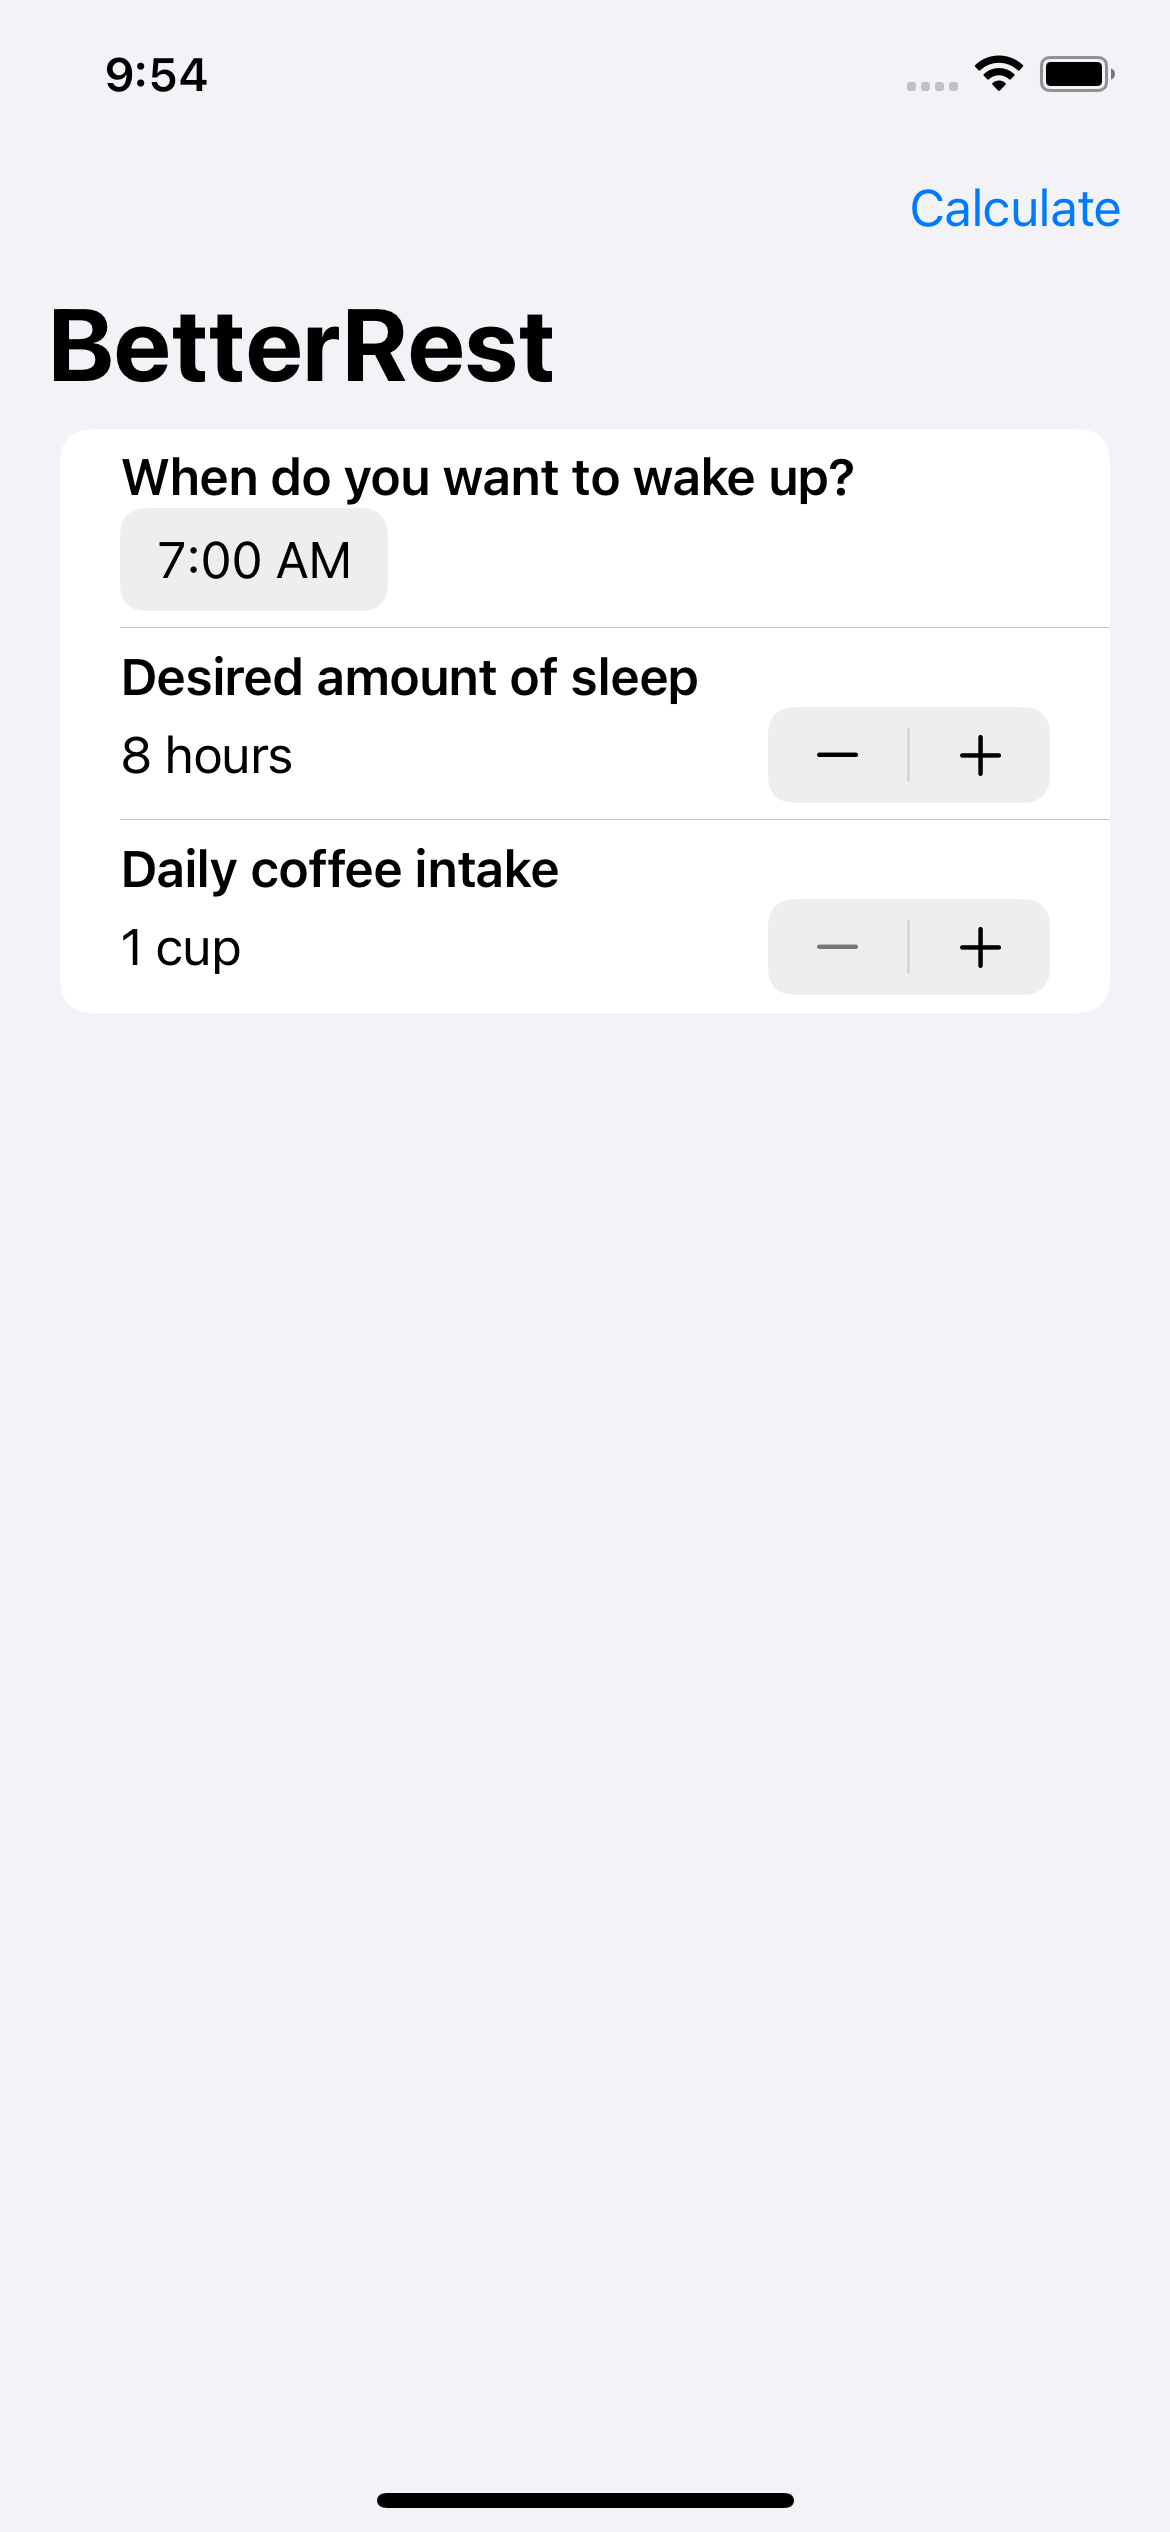
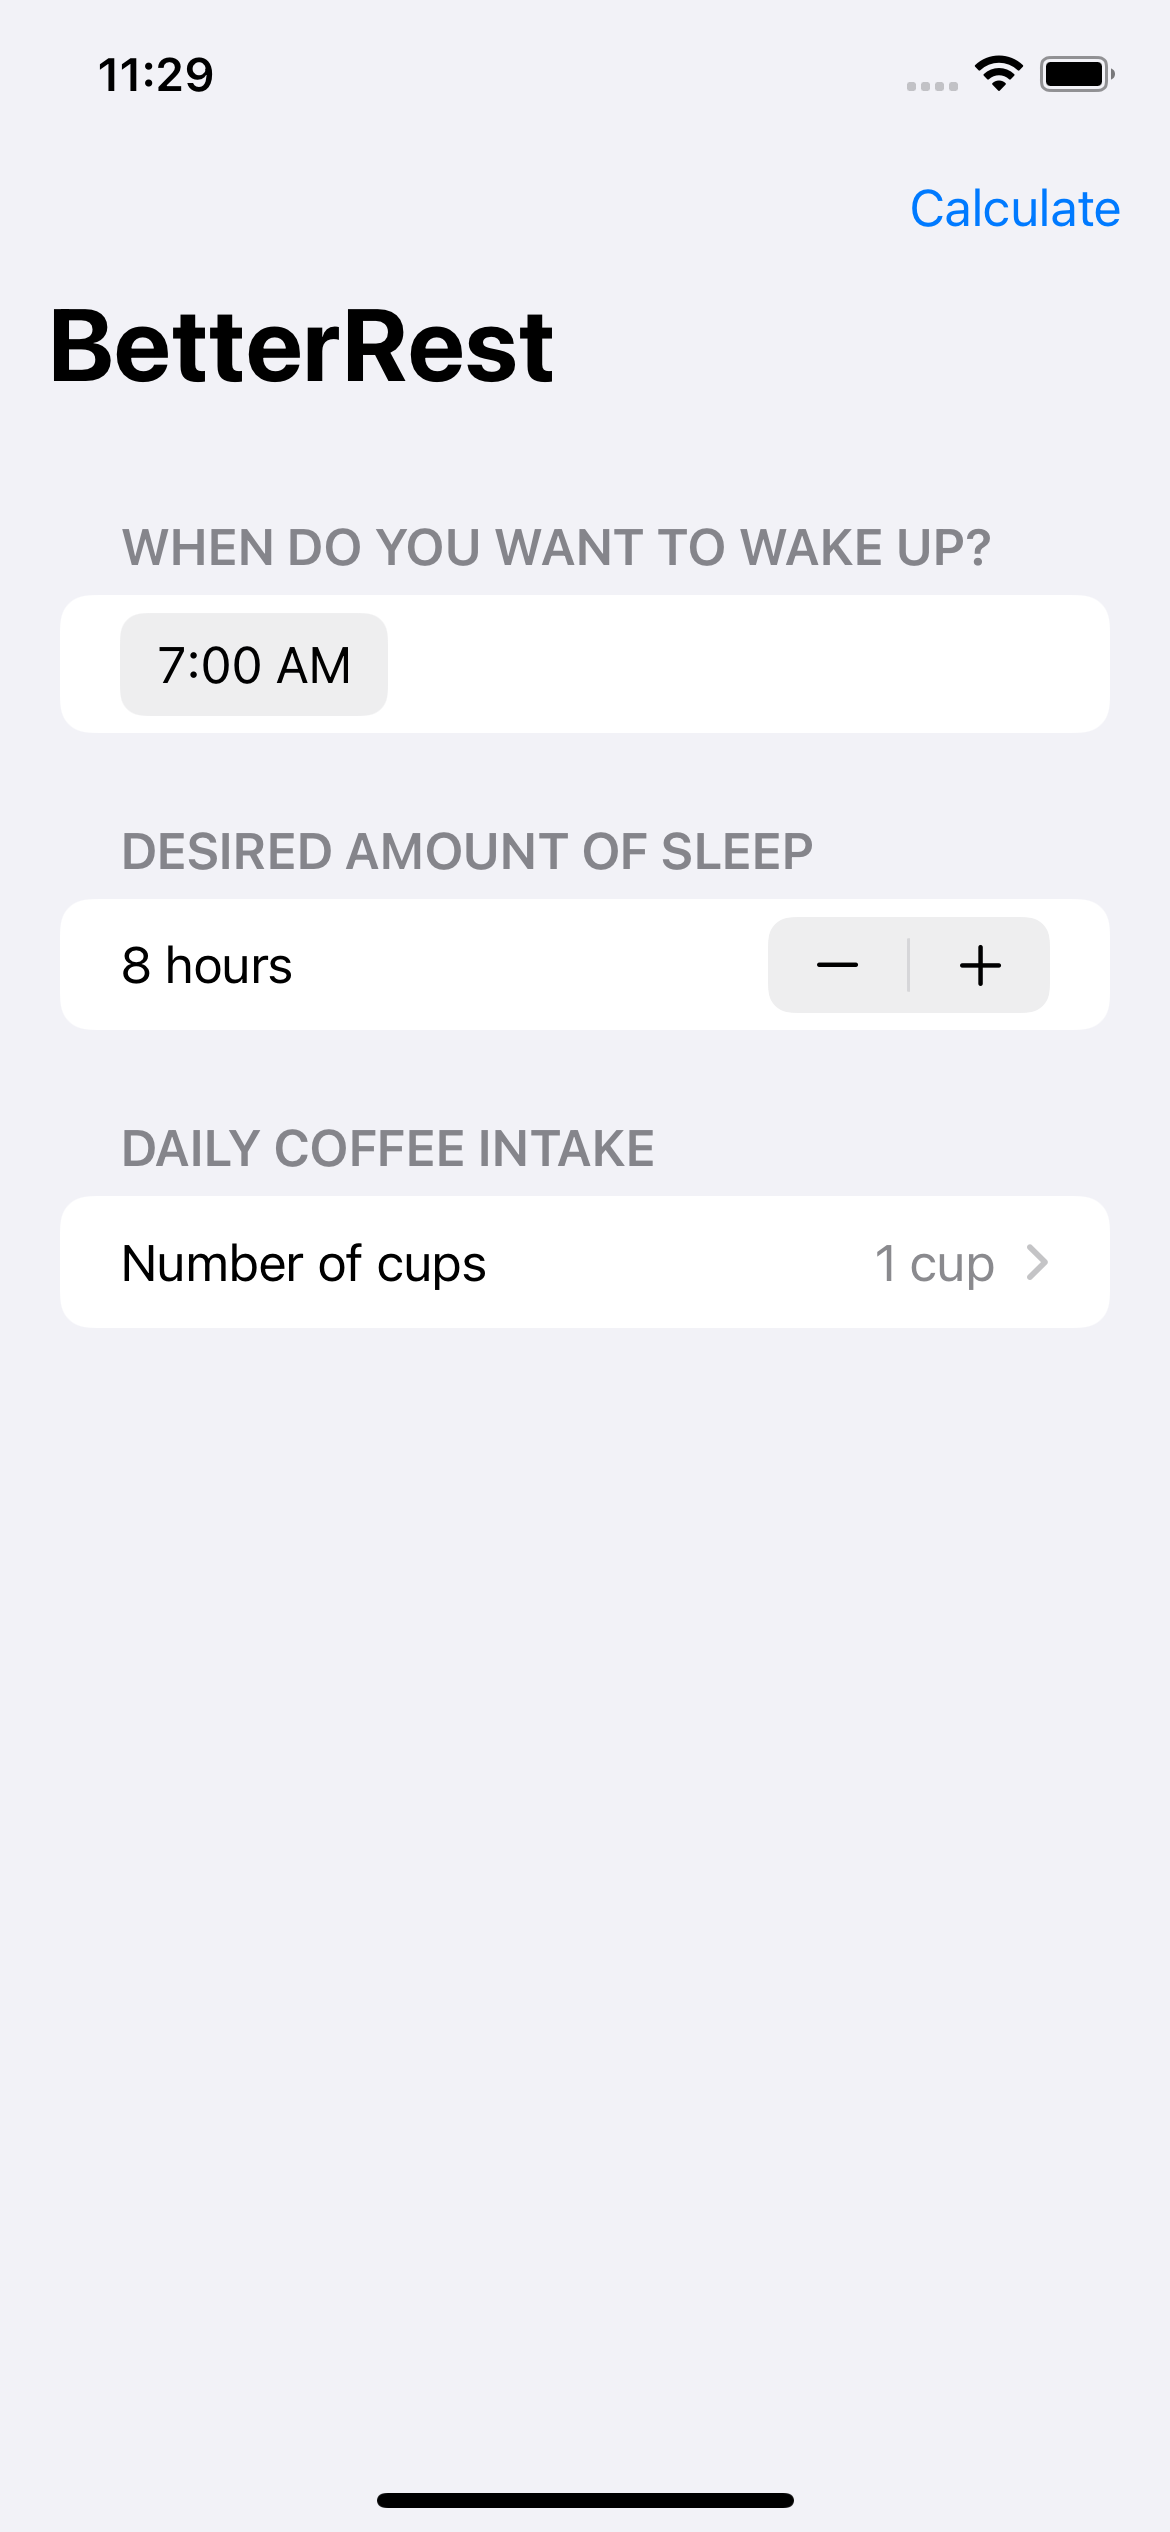
add section and picker

diff --git a/12-betterrest/BetterRest/BetterRest/ContentView.swift b/12-betterrest/BetterRest/BetterRest/ContentView.swift
@@ -27,21 +27,27 @@ struct ContentView: View {
     var body: some View {
         NavigationView {
             Form {
-                VStack(alignment: .leading, spacing: 0) {
-                    Text("When do you want to wake up?")
-                        .font(.headline)
-                    DatePicker("Please enter a time", selection: $wakeUp, displayedComponents: .hourAndMinute).labelsHidden()
+                Section {
+                    DatePicker("Please enter a time", selection: $wakeUp, displayedComponents: .hourAndMinute)
+                        .labelsHidden()
+                } header: {
+                    Text("When do you want to wake up?").font(.headline)
                 }
-                VStack(alignment: .leading, spacing: 0) {
-                    Text("Desired amount of sleep")
-                        .font(.headline)
+                Section {
                     Stepper("\(sleepAmount.formatted()) hours",
                             value: $sleepAmount, in: 4...12, step: 0.25)
+                } header: {
+                    Text("Desired amount of sleep").font(.headline)
                 }
-                VStack(alignment: .leading, spacing: 0) {
+                Section {
+                    Picker("Number of cups", selection: $coffeeAmount) {
+                                            ForEach(1..<21) {
+                                                Text("\($0) \($0 == 1 ? "cup" : "cups")").tag($0)
+                                            }
+                                        }
+                } header: {
                     Text("Daily coffee intake")
                         .font(.headline)
-                    Stepper(coffeeAmount == 1 ? "1 cup" : "\(coffeeAmount) cups", value: $coffeeAmount, in: 1...20)
                 }
             }
             .alert(alertTitle, isPresented: $showingAlert) {
